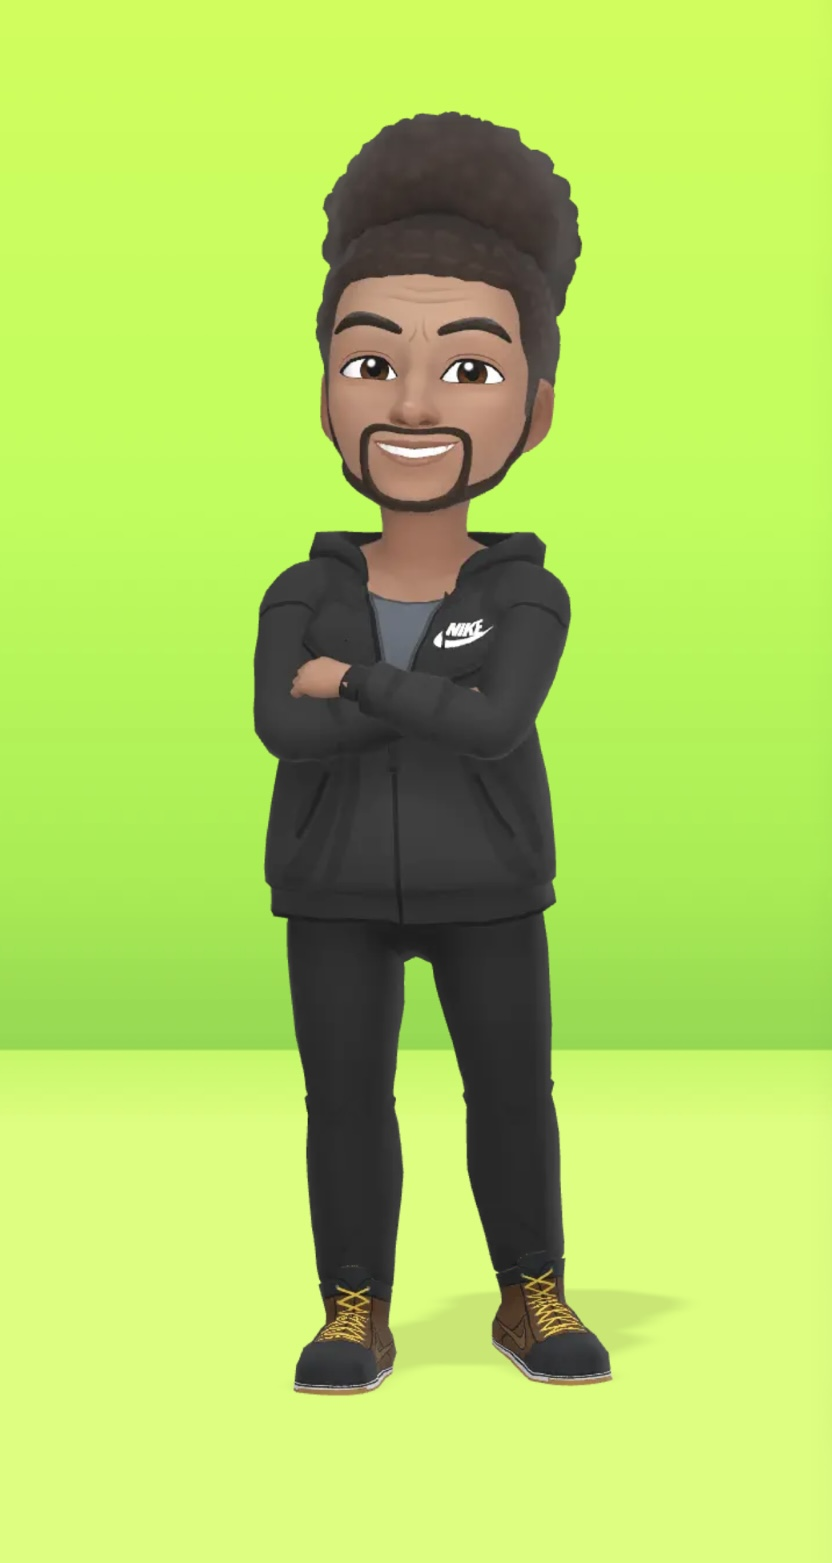
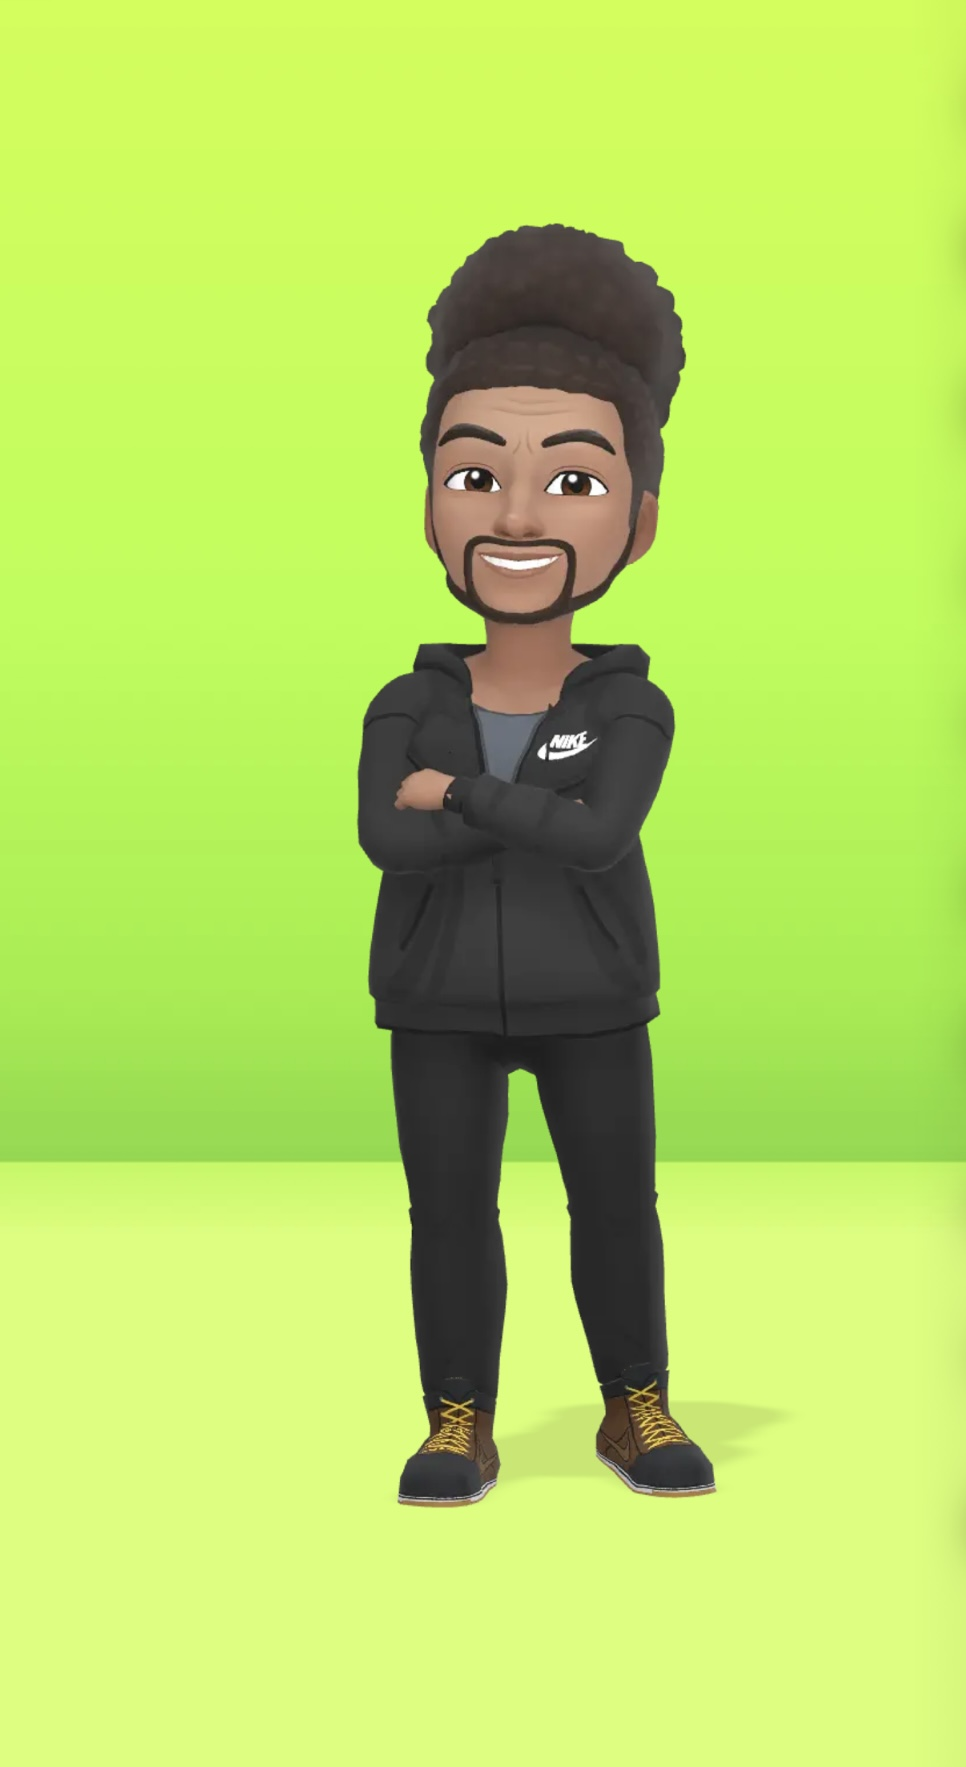
Update team images and descriptions in about.html

Changed region(s): [[0.0, 0.0614, 1.0, 0.8906]]

diff --git a/about.html b/about.html
@@ -65,8 +65,18 @@
       <p class="lead">See the team behind the magic!</p>
       <hr />
       <div class="team-images">
-        <img class="team-img" src="assets/images/ethan.jpg" alt="Image of a person named Ethan" />
-        <img class="team-img" src="assets/images/beth.jpg" alt="Image of a person named Beth" />
+        <img class="team-img-1" src="assets/images/ethan.jpg" alt="Image of a person named Ethan" />
+        <img class="team-img-2" src="assets/images/beth.jpg" alt="Image of a person named Beth" />
+      </div>
+      <div>
+        <p>
+          <strong class="names">Ethan</strong> is a passionate home cook who loves experimenting with new ingredients and techniques. He enjoys
+          creating dishes that are both delicious and visually appealing, and he’s always on the lookout for fresh inspiration.
+        </p>
+        <p>
+          <strong class="names">Beth</strong> is a self-taught baker with a sweet tooth and a love for all things dessert. She’s known for her
+          creative flavor combinations and stunning cake designs, and she’s constantly dreaming up new treats to share with friends and family.
+        </p>
       </div>
     </div>
 

diff --git a/assets/css/style.css b/assets/css/style.css
@@ -28,6 +28,10 @@ h6 {
 .nav-link {
   color: #e07a5f !important;
 }
+
+.names {
+  color: #e07a5f;
+}
 /******************* Alignment *******************/
 
 .mt-5 {
@@ -58,14 +62,14 @@ footer {
   justify-content: space-between;
 }
 
-.team-img {
+.team-img-1,
+.team-img-2 {
   flex: 1;
-  margin: 0 10px;
-  height: 50%;
-  width: 50%;
-  margin-top: 20px;
-  margin-bottom: 30px;
+  height: 100%;
+  width: 30%;
+  margin: 20px 10px 30px;
 }
+
 /******************* Styles *******************/
 
 .page-title {
